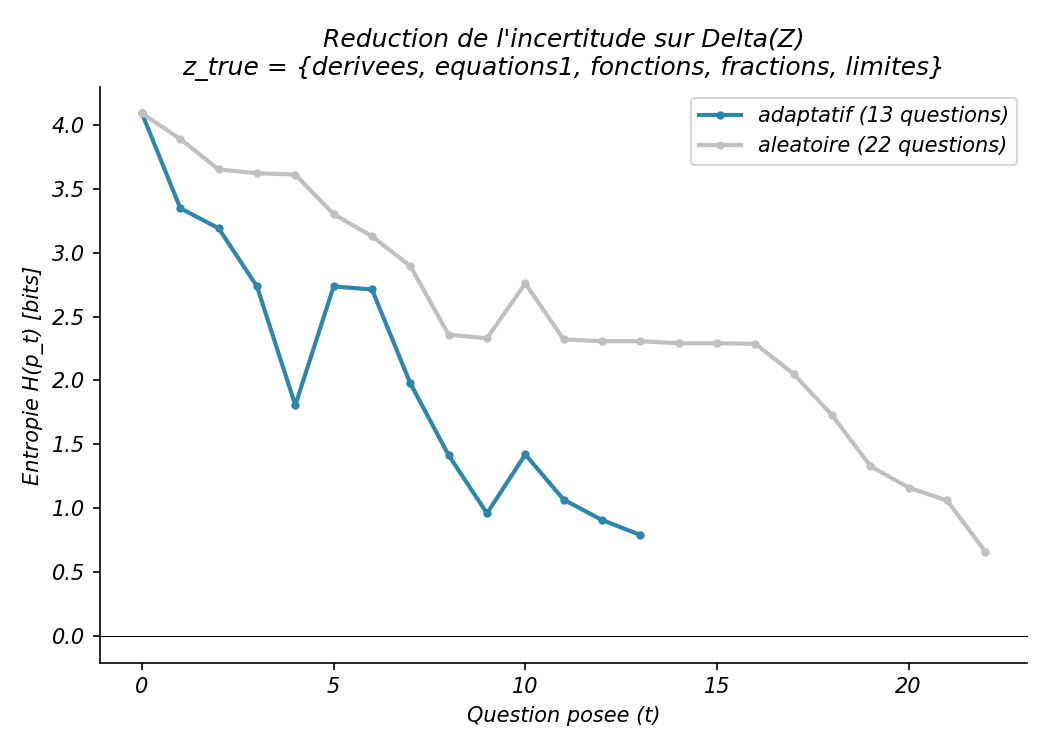
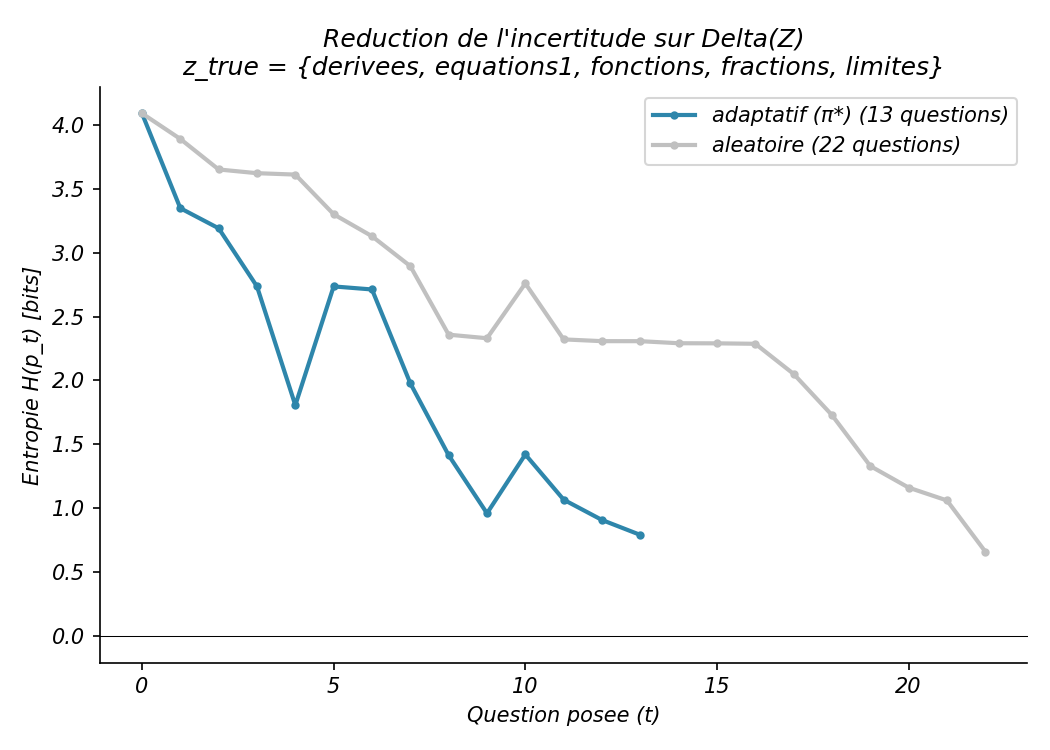
Lot 5 (branche) : renomme select_next -> pi_star, relegende les figures
Branche experimentale (master reste la version safe/deliverable en l'etat,
decision actee avec l'utilisateur : si ce travail aboutit on le recupere,
sinon on prend ce qu'il faut). Suite a plan_action_code.md, table de
correspondance theorie/code :

  select_next -> pi_star (pi*(p) = argmax_a IG(a;p), la politique optimale
  EXACTE que la theorie declare intractable en general -- l'implementation
  la calcule exactement, d'ou la valeur du Lot 1 a venir).

Table de correspondance complete ajoutee en tete de kst_engine.py (docstring
module). Les autres lignes de la table (p_t<->p, bayes_update,
information_gain_exact<->IG, Question<->action a) ne sont PAS renommees :
deja alignees (p) ou plus lisibles en Python sous leur nom actuel que sous
une lettre seule -- documente explicitement pourquoi dans le docstring.

Mise a jour de tous les points d'appel (app.py, tests) et references
(domains/loader.py, irt_baseline.py -- select_next_irt n'est PAS renomme,
c'est la baseline CAT-IRT deliberement differente de pi*, pas un alias).

Relegende les 3 figures existantes avec la notation de la monographie
(legende "adaptatif (π*)" dans refactor_avant_apres.png, entropy_trace.png,
benchmark_a3.png/results/benchmark_a3/figure.pdf) -- figures regenerees,
chiffres inchanges.

127 tests passent, aucune regression.

Changed region(s): [[0.6095, 0.1227, 0.9752, 0.2147]]

diff --git a/kst_engine.py b/kst_engine.py
@@ -7,6 +7,26 @@ Implemente les couches 1, 2 et 4 du PFA :
   4. Controle     : selection par maximisation du gain d'information
 
 Aucune dependance hors numpy.
+
+Correspondance theorie (monographie) <-> code (Lot 5, plan_action_code.md) --
+a tenir a jour si l'un des deux cote change :
+
+  Theorie                                          Code
+  ------------------------------------------------  -----------------------------
+  p_t in Delta(Z), etat de croyance                 p : np.ndarray (vecteur sur Z)
+  Transition bayesienne, eq. (1)                    bayes_update
+  pi*(p) = argmax_a IG(a;p), politique optimale      pi_star
+  IG(a;p) = E_y[D_KL(p^y_a || p)]                    information_gain_exact
+  epsilon-lissage                                    lissage symetrique en log-espace
+                                                      (bayes_update, EPS)
+  Action pedagogique a in A                          question de la banque (Question)
+  Probabilite d'emission P(y|a,z)                    modele BLIM (slip, guess)
+
+Les deux dernieres lignes ne sont PAS renommees dans le code : "action a" et
+"question" designent le meme objet, mais "question" reste plus lisible en
+Python qu'une lettre seule -- cf. Question/Concept, deja separes (voir
+docstrings des deux classes). Idem pour p_t : le parametre s'appelle deja `p`
+partout, ce qui correspond directement a la notation.
 """
 
 from __future__ import annotations
@@ -283,9 +303,15 @@ def questions_needed(slip: float, guess: float, n_concepts: int,
     return n_concepts * log_odds / item_information(slip, guess)
 
 
-def select_next(p: np.ndarray, domain: Domain,
-                asked: set[int]) -> tuple[int, float]:
-    """Politique gloutonne : argmax du gain d'information sur les questions non posees.
+def pi_star(p: np.ndarray, domain: Domain,
+           asked: set[int]) -> tuple[int, float]:
+    """Politique optimale exacte π*(p) = argmax_a IG(a;p) (chapitres 6-7) :
+    argmax du gain d'information sur les questions non posees.
+
+    C'est la politique que la theorie declare intractable en general et que
+    cette implementation calcule EXACTEMENT (pas une approximation) --
+    d'ou la valeur du Lot 1 du plan (validation de l'estimateur Monte Carlo
+    contre cette meme reference exacte, cf. plan_action_code.md).
 
     asked contient des indices de QUESTIONS (pas de concepts) : plusieurs
     questions du meme concept restent eligibles tant qu'elles n'ont pas
@@ -311,7 +337,7 @@ def should_stop(p: np.ndarray, domain: Domain, asked: set[int],
     """Trois criteres d'arret (chapitre 7), le premier qui se declenche gagne.
 
     ig : gain d'information de la meilleure question restante, si deja
-    calcule par select_next (c'est le cas dans simulate). Sinon il est
+    calcule par pi_star (c'est le cas dans simulate). Sinon il est
     recalcule ici -- pratique pour appeler should_stop seul (tests), mais
     coute O(|A|.|Z|) : ne pas l'omettre dans une boucle chaude.
     """
@@ -320,7 +346,7 @@ def should_stop(p: np.ndarray, domain: Domain, asked: set[int],
     if p.max() >= confidence:                       # un etat domine
         return True
     if ig is None:
-        _, ig = select_next(p, domain, asked)        # plus rien a apprendre
+        _, ig = pi_star(p, domain, asked)             # plus rien a apprendre
     return ig < min_ig
 
 
@@ -337,10 +363,10 @@ def simulate(domain: Domain, z_true: frozenset, adaptive: bool = True,
     trace = [entropy(p)]
 
     while True:
-        # select_next calcule aussi le critere d'arret 3 (chapitre 7) : on le
+        # pi_star calcule aussi le critere d'arret 3 (chapitre 7) : on le
         # passe a should_stop plutot que le laisser le recalculer, ce qui
         # evite de payer deux fois O(|A|.|Z|) par question posee.
-        q_best, ig = select_next(p, domain, asked)
+        q_best, ig = pi_star(p, domain, asked)
         if should_stop(p, domain, asked, max_questions=max_questions, ig=ig):
             break
         q = q_best if adaptive else int(rng.choice(

diff --git a/test_kst_engine.py b/test_kst_engine.py
@@ -26,7 +26,7 @@ from kst_engine import (
     information_gain_mc,
     item_information,
     questions_needed,
-    select_next,
+    pi_star,
     should_stop,
     simulate,
     make_demo_domain,
@@ -345,17 +345,17 @@ class TestQuestionsNeeded:
         assert piste_a_haut > piste_a_bas
 
 
-class TestSelectNext:
+class TestPiStar:
 
     def test_ignore_les_questions_deja_posees(self, toy_domain):
         p = uniform_prior(toy_domain)
         asked = {0}
-        q, _ = select_next(p, toy_domain, asked)
+        q, _ = pi_star(p, toy_domain, asked)
         assert q not in asked
 
     def test_choisit_largmax_du_gain(self, toy_domain):
         p = uniform_prior(toy_domain)
-        q, ig = select_next(p, toy_domain, set())
+        q, ig = pi_star(p, toy_domain, set())
         all_ig = [information_gain_exact(p, toy_domain, i)
                  for i in range(toy_domain.n_questions)]
         assert ig == pytest.approx(max(all_ig))
@@ -371,7 +371,7 @@ class TestSelectNext:
         )
         p = uniform_prior(dom)
         asked = {0}                     # "a1" deja posee
-        q, _ = select_next(p, dom, asked)
+        q, _ = pi_star(p, dom, asked)
         assert q in (1, 2)               # "a2" ou "b1" restent eligibles
 
 
@@ -442,14 +442,14 @@ class TestSimulate:
                  for s, z in enumerate(dom.Z)]
         assert np.mean(n_adapt) < np.mean(n_rand)
 
-    def test_select_next_appele_une_seule_fois_par_question(self, toy_domain):
-        """Regression : simulate() appelait select_next deux fois par
+    def test_pi_star_appele_une_seule_fois_par_question(self, toy_domain):
+        """Regression : simulate() appelait pi_star deux fois par
         question posee en mode adaptatif (une fois dans should_stop pour le
         3e critere d'arret, une fois de plus pour choisir la question),
         doublant le cout O(|A|.|Z|) pour rien. On attend desormais un seul
         appel par tour de boucle (questions posees + 1 verification finale)."""
         z_true = toy_domain.Z[-1]
-        with patch("kst_engine.select_next", wraps=kst_engine.select_next) as spy:
+        with patch("kst_engine.pi_star", wraps=kst_engine.pi_star) as spy:
             r = simulate(toy_domain, z_true, adaptive=True, seed=0, max_questions=100)
         assert spy.call_count == r["n_questions"] + 1
 

diff --git a/kst_benchmark_plots.py b/kst_benchmark_plots.py
@@ -48,7 +48,7 @@ def fig_before_after():
     w = 0.32
 
     fig, ax = plt.subplots(figsize=(7, 5))
-    b1 = ax.bar(x - w/2, adapt_vals, w, label="adaptatif (gain d'information)",
+    b1 = ax.bar(x - w/2, adapt_vals, w, label="adaptatif (π*, gain d'information)",
                color="#2E86AB")
     b2 = ax.bar(x + w/2, rand_vals, w, label="aleatoire",
                color="#C0C0C0")
@@ -82,11 +82,12 @@ def fig_entropy_trace():
 
     fig, ax = plt.subplots(figsize=(7, 5))
     colors = {"adaptatif": "#2E86AB", "aleatoire": "#C0C0C0"}
+    plot_labels = {"adaptatif": "adaptatif (π*)", "aleatoire": "aleatoire"}
     for label, adaptive in (("adaptatif", True), ("aleatoire", False)):
         r = simulate(dom, z_true, adaptive=adaptive, seed=0)
         trace = r["entropy_trace"]
         ax.plot(range(len(trace)), trace, marker="o", markersize=3,
-               label=f"{label} ({r['n_questions']} questions)",
+               label=f"{plot_labels[label]} ({r['n_questions']} questions)",
                color=colors[label], linewidth=2)
 
     ax.axhline(0, color="black", linewidth=0.5)

diff --git a/app.py b/app.py
@@ -24,7 +24,7 @@ from kst_engine import (
     bayes_update,
     concept_marginals,
     entropy,
-    select_next,
+    pi_star,
     should_stop,
     uniform_prior,
 )
@@ -47,7 +47,7 @@ def init_state(domain):
 
 
 def pick_next(domain):
-    q, ig = select_next(st.session_state.p, domain, st.session_state.asked)
+    q, ig = pi_star(st.session_state.p, domain, st.session_state.asked)
     if q is None or should_stop(st.session_state.p, domain, st.session_state.asked, ig=ig):
         st.session_state.stage = "results"
         st.session_state.current_q = None

diff --git a/domains/loader.py b/domains/loader.py
@@ -18,7 +18,7 @@ def load_domain_yaml(path: str | Path) -> tuple[Domain, list[dict], dict[str, st
     """Charge un domaine + banque de questions depuis un YAML au format B1.
 
     Retourne (domain, meta, labels) :
-      - domain : objet moteur, pret pour bayes_update/select_next
+      - domain : objet moteur, pret pour bayes_update/pi_star
       - meta   : liste alignee sur domain.questions (stem/options/answer/difficulty)
       - labels : id de concept -> libelle humain
     """

diff --git a/irt_baseline.py b/irt_baseline.py
@@ -1,6 +1,6 @@
 """Baseline CAT-IRT (3PL, critere d'information de Fisher) pour le benchmark A3.
 
-Sert de point de comparaison a la selection KST (kst_engine.select_next) :
+Sert de point de comparaison a la selection KST (kst_engine.pi_star) :
 theta continu unidimensionnel au lieu d'un etat de connaissance discret sur
 plusieurs concepts. Modele DELIBEREMENT mal specifie par rapport a la verite
 terrain BLIM -- c'est le point du benchmark (cf. docstring de benchmark_a3.py).

diff --git a/benchmark_a3.py b/benchmark_a3.py
@@ -62,7 +62,7 @@ DOMAIN_PATH = ROOT / "domains" / "piste_b.yaml"
 RESULTS_DIR = ROOT / "results" / "benchmark_a3"
 
 POLICY_LABELS = {
-    "adaptatif": "Adaptatif\n(gain d'info, KST)",
+    "adaptatif": "Adaptatif (π*)\n(gain d'info, KST)",
     "aleatoire": "Aléatoire",
     "cat_irt": "CAT-IRT\n(baseline 3PL)",
 }

diff --git a/RAPPORT_AVANCEMENT.md b/RAPPORT_AVANCEMENT.md
@@ -20,7 +20,7 @@ Implémente les 4 couches de la théorie :
 - **Combinatoire** : `build_knowledge_space` construit `Z` (l'espace des états de connaissance valides) à partir d'un graphe de prérequis entre concepts — fermeture transitive puis sous-ensembles clos vers le bas.
 - **Probabilité (BLIM)** : `Domain`/`Concept`/`Question`, chaque question a son propre `slip` (erreur d'inattention) et `guess` (réponse au hasard), contrainte `slip+guess<1`. **Concept et Question sont volontairement séparés** (refactor fait tôt) : plusieurs questions par concept, ce qui donne un vrai choix à la sélection gloutonne.
 - **Mise à jour bayésienne** : `bayes_update` sur `Δ(Z)`, en log-espace, avec lissage symétrique (prior et vraisemblance) pour éviter que `p(z)` s'écrase à 0 de façon irréversible.
-- **Contrôle** : `select_next` (argmax du gain d'information exact), `should_stop` (trois critères : plafond de questions, confiance ≥ seuil, gain d'info résiduel négligeable).
+- **Contrôle** : `pi_star` — π*(p) = argmax_a IG(a;p), la politique optimale exacte (argmax du gain d'information) —, `should_stop` (trois critères : plafond de questions, confiance ≥ seuil, gain d'info résiduel négligeable).
 
 Le cas d'or de la monographie (0,500 → 0,818) est vérifié par test. Le moteur n'a **aucune dépendance hors numpy** — un choix de conception délibérément maintenu (les chargeurs YAML, matplotlib, etc. vivent dans des modules séparés).
 

diff --git a/CONTEXTE_PROJET.md b/CONTEXTE_PROJET.md
@@ -23,7 +23,7 @@ Fichiers de référence théorique/architecture dans le repo, **déjà lus et in
 ## 2. Ce qui existe et fonctionne (100 tests passent, `python -m pytest -q` à la racine)
 
 ### Moteur (`kst_engine.py`)
-Implémente les 4 couches KST : `build_knowledge_space` (chapitre 2), `Domain`/`Concept`/`Question` avec BLIM (chapitre 3), `bayes_update`/`entropy`/`information_gain_exact`/`select_next`/`should_stop` (chapitres 6-7). Concept et Question sont **séparés** (refactor fait tôt dans le projet) : plusieurs questions par concept, chacune avec son propre `slip`/`guess`. 47+ tests, cas d'or de la monographie (0,500→0,818) vérifié.
+Implémente les 4 couches KST : `build_knowledge_space` (chapitre 2), `Domain`/`Concept`/`Question` avec BLIM (chapitre 3), `bayes_update`/`entropy`/`information_gain_exact`/`pi_star` (anciennement `select_next`, renommé Lot 5)/`should_stop` (chapitres 6-7). Concept et Question sont **séparés** (refactor fait tôt dans le projet) : plusieurs questions par concept, chacune avec son propre `slip`/`guess`. 47+ tests, cas d'or de la monographie (0,500→0,818) vérifié.
 
 ### Piste A — pipeline complet sur données réelles (Junyi Academy, dataset Junyi15)
 1. **`data/extract_junyi.py`** — construit `data/domain.yaml` (concepts + prérequis) depuis `junyi_Exercise_table.csv`. Résout les conflits de direction de prérequis par test binomial bilatéral (α=0,10, appliqué uniformément).
